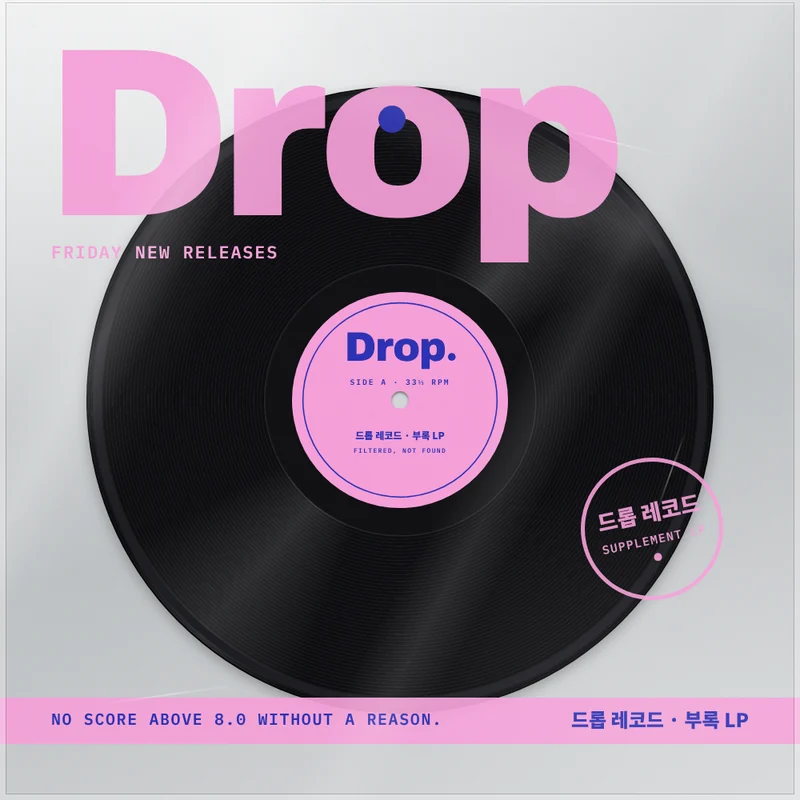
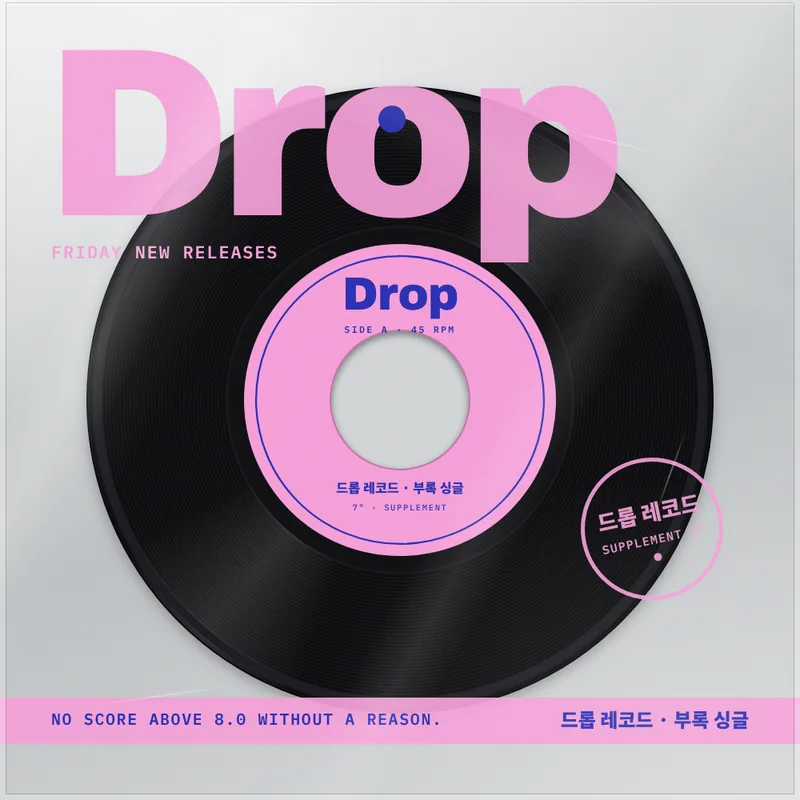
잡지 부록 그림도 7인치 싱글로, Spotify 싱글 앨범도 7인치로 보여 줌
- 부록 커버·라벨을 7인치로 다시 뽑음(큰 구멍, 큰 라벨, 45 RPM, '부록 싱글')
- album_type 'single' 앨범은 3D 판·크레이트·지금 재생에서 7인치. 종류는 기기에 기억하고 모르는 건 /albums로 물어 둠

Claude-Session: https://claude.ai/code/session_016AQsQZ3XshobkbFK42D9pw

Changed region(s): [[0.2812, 0.2812, 0.7188, 0.7188], [0.6875, 0.875, 0.9375, 0.9375]]

diff --git a/public/index.html b/public/index.html
@@ -269,6 +269,9 @@ input[type="range"]::-moz-range-thumb { width: 14px; height: 14px; border-radius
 .tk.on { background: var(--z100); }
 .tk.on b { font-weight: 700; }
 .lp.pl { border-radius: 2px; }
+/* 7인치 싱글: 12인치 LP 상자 안에 작게(7¼ / 12⅜) 세워 둔다 */
+.lp.s7 { left: 32%; width: 36%; bottom: 26%; } /* 앞 판자에 가려지지 않게 밑을 받쳐 올림(밑은 판자 뒤) */
+.lp.s7::after { inset: 4%; }
 /* 플레이리스트 = 곡 목록이 적힌 클립보드 */
 .cb { container-type: inline-size; border-radius: 5% !important; background: linear-gradient(180deg, rgba(255,240,220,.12), transparent 30%, rgba(30,15,5,.25)), var(--grain), linear-gradient(135deg, #a3723f, #8b5d31 55%, #77502a) !important; background-size: 100% 100%, 260px 70px, 100% 100% !important; box-shadow: 0 -3px 10px rgba(0,0,0,.35), inset 0 0 0 1px rgba(255,255,255,.12) !important; }
 .cb::before, .cb::after { display: none !important; }
@@ -473,6 +476,10 @@ dialog::backdrop { background: rgba(17,24,39,.35); }
 .np.on .np-disc .spinr { animation-play-state: running; }
 .np-disc .lbl { position: absolute; left: 34%; top: 34%; width: 32%; height: 32%; border-radius: 50%; background: #333 center/cover no-repeat; box-shadow: 0 0 0 2px #0b0b0c, inset 0 0 0 1px rgba(255,255,255,.15); }
 .np-disc .lbl::after { content: ''; position: absolute; left: 46%; top: 46%; width: 8%; height: 8%; border-radius: 50%; background: #e5e7eb; }
+/* 7인치 싱글: 슬리브·판이 LP의 0.6배, 라벨은 판의 절반, 가운데 큰 구멍 */
+.np.s7 .np-tilt { scale: .6; }
+.np.s7 .np-disc .lbl { left: 25%; top: 25%; width: 50%; height: 50%; }
+.np.s7 .np-disc .lbl::after { left: 39%; top: 39%; width: 22%; height: 22%; background: #16171b; box-shadow: inset 0 0 0 3px #d9a43a; }
 .np-sleeve { position: absolute; inset: 0; border-radius: 4px; background: #2b2b30 center/cover no-repeat; transform: translateZ(0); box-shadow: 0 30px 60px -18px color-mix(in srgb, var(--a1, #000) 70%, #000), 0 12px 24px -10px rgba(0,0,0,.45), inset 0 0 0 1px rgba(255,255,255,.18); -webkit-box-reflect: below 4px linear-gradient(transparent 84%, rgba(255,255,255,.16)); }
 .np-sleeve::before { content: ''; position: absolute; inset: 0; border-radius: inherit; pointer-events: none; background: linear-gradient(115deg, transparent 32%, rgba(255,255,255,.42) 46%, rgba(255,255,255,.08) 52%, transparent 62%); background-size: 260% 100%; background-position: var(--gx, 60%) 0; mix-blend-mode: soft-light; transition: background-position .5s; }
 .np-sleeve::after { content: ''; position: absolute; inset: 7%; border-radius: 50%; border: calc(1px + var(--w, 0) * 3px) solid rgba(255,252,245, calc(.06 + var(--w, 0) * .35)); pointer-events: none; }
@@ -1241,10 +1248,38 @@ body.magon > header.top, body.magon > main, body.magon > .amb, body.magon > foot
     const s = im.slice().sort((x, y) => (x.width || 0) - (y.width || 0));
     return (s.find((x) => (x.width || 0) >= w) || s[s.length - 1]).url;
   };
-  const toAlbum = (a) => MM.album({
+  const toAlbum = (a) => (noteType(a.id, a.album_type), MM.album({
     id: a.id, name: a.name, artist: (a.artists || []).map((x) => x.name).join(', '),
     img: pickImg(a.images, 300), year: (a.release_date || '').slice(0, 4), n: a.total_tracks,
-  });
+  }));
+  // 싱글(7인치, 2026-11-13 사용자 요청): Spotify가 album_type 'single'로 분류한 앨범(EP 포함) + 잡지 부록.
+  // 종류는 이 기기에 기억(LS music.atype {id: 's'|'a'}): 찾기 결과·지금 곡에서 받고, 크레이트에 있는데 모르는 것은 fillTypes가 물어 둔다
+  const AT = LS.get('music.atype') || {};
+  let atSaveT = 0;
+  function noteType(id, t) {
+    if (!id || !t) return;
+    const v = t === 'single' ? 's' : 'a';
+    if (AT[id] === v) return;
+    AT[id] = v; clearTimeout(atSaveT); atSaveT = setTimeout(() => LS.set('music.atype', AT), 500);
+  }
+  const isSingle = (a) => !!a && (!!a.m || (!isPl(a) && AT[a.id] === 's'));
+  const atTried = new Set();
+  let atBusy = false;
+  async function fillTypes() {
+    if (atBusy || !loggedIn()) return;
+    const ids = [...new Set(live().flatMap((c) => c.albums.filter((a) => !isPl(a) && !AT[a.id] && !atTried.has(a.id)).map((a) => a.id)))];
+    if (!ids.length) return;
+    atBusy = true;
+    try {
+      for (let i = 0; i < ids.length; i += 20) {
+        const part = ids.slice(i, i + 20); part.forEach((id) => atTried.add(id));
+        const j = await api('/albums?ids=' + part.join(',')).catch(() => null);
+        if (j && Array.isArray(j.albums)) { j.albums.forEach((x) => x && noteType(x.id, x.album_type)); continue; }
+        // 여러 장 묻기가 막혀 있으면 한 장씩
+        for (const id of part) { const x = await api('/albums/' + id).catch(() => null); if (x) noteType(id, x.album_type); }
+      }
+    } finally { atBusy = false; LS.set('music.atype', AT); renderCrate(); render(); }
+  }
   // 플레이리스트도 앨범 한 장처럼 꽂는다 (k: 'pl')
   const toList = (p) => MM.album({
     k: 'pl', id: p.id, name: p.name, artist: (p.owner && (p.owner.display_name || p.owner.id)) || '',
@@ -1259,7 +1294,7 @@ body.magon > header.top, body.magon > main, body.magon > .amb, body.magon > foot
     el.querySelector('.cb-img').style.backgroundImage = bg(a.img);
   }
   const uriOf = (a) => (isPl(a) ? 'spotify:playlist:' : 'spotify:album:') + a.id;
-  const metaLine = (a) => (isPl(a) ? [a.m ? '부록 LP' : '플레이리스트', a.artist, a.n ? a.n + '곡' : ''] : [a.artist, a.year, a.n ? a.n + '곡' : '']).filter(Boolean).join(' · ');
+  const metaLine = (a) => (isPl(a) ? [a.m ? '부록 싱글' : '플레이리스트', a.artist, a.n ? a.n + '곡' : ''] : [a.artist, a.year, a.n ? a.n + '곡' : '']).filter(Boolean).join(' · ');
   // 지금 판 = 플레이리스트로 틀었으면 플레이리스트, 아니면 곡의 앨범
   const ctxKey = (st) => {
     const it = st && st.item; if (!it) return '';
@@ -1359,7 +1394,7 @@ body.magon > header.top, body.magon > main, body.magon > .amb, body.magon > foot
       if (el) { el.classList.remove('shine'); void el.offsetWidth; el.classList.add('shine'); }
       const ci = $('cinfo'); ci.innerHTML = '';
       const b = document.createElement('b'); b.textContent = a.name;
-      ci.append(b, [a.m ? '부록 LP' : isPl(a) ? '플레이리스트' : 'LP', a.year, a.n ? a.n + '곡' : '', a.p ? a.p + '번 들음' : ''].filter(Boolean).join(' · '));
+      ci.append(b, [a.m ? '부록 싱글' : isPl(a) ? '플레이리스트' : isSingle(a) ? '7" 싱글' : 'LP', a.year, a.n ? a.n + '곡' : '', a.p ? a.p + '번 들음' : ''].filter(Boolean).join(' · '));
       setTimeout(() => ci.classList.add('on'), 450);
     }, 260);
   }
@@ -1409,6 +1444,7 @@ body.magon > header.top, body.magon > main, body.magon > .amb, body.magon > foot
         recs.appendChild(e);
       }
       e.dataset.i = i;
+      e.classList.toggle('s7', isSingle(a)); // 7인치 싱글은 상자 안에서도 작은 슬리브
       e.style.setProperty('--w', Math.min(1, (a.p || 0) / 20).toFixed(2));
       place(e, i - cf);
     }
@@ -1420,15 +1456,16 @@ body.magon > header.top, body.magon > main, body.magon > .amb, body.magon > foot
     if (loggedIn()) A.slice(i0, i0 + 2).forEach((x) => fetchTracks(uriOf(x)).catch(() => {}));
     // 지금 고른 판은 3D 새 판·슬리브까지 미리 만들어 둔다(누르는 순간 바로 모션)
     if (a && window.Deck3D && Deck3D.prebuild) {
-      const k2 = uriOf(a), mk = () => Deck3D.prebuild({ ...a, tracks: gapsOf(tkDone.get(k2)) }, isPl(a) && !a.sealed && !a.m);
+      const k2 = uriOf(a), mk = () => Deck3D.prebuild({ ...a, single: isSingle(a), tracks: gapsOf(tkDone.get(k2)) }, isPl(a) && !a.sealed && !a.m);
       clearTimeout(S.preT); S.preT = setTimeout(() => { mk(); if (loggedIn() && !tkDone.has(k2)) fetchTracks(k2).then(mk).catch(() => {}); }, 150);
     }
+    clearTimeout(S.atT); S.atT = setTimeout(fillTypes, 1500);
     $('pickT').textContent = a ? a.name : c.name;
     $('pickA').textContent = a ? metaLine(a) + (a.p ? ` · ${a.p}번 들음` : '') : '앨범 0장';
     $('crateIdx').textContent = A.length ? `${i0 + 1}/${A.length}` : '0/0';
     $('prevLp').disabled = i0 <= 0; $('nextLp').disabled = i0 >= A.length - 1;
     $('playLp').disabled = $('pullLp').disabled = !a;
-    $('playLp').lastChild.textContent = a && a.m ? '이 부록 LP 듣기' : isPl(a) ? '이 플레이리스트 듣기' : '이 앨범 듣기';
+    $('playLp').lastChild.textContent = a && a.m ? '이 부록 싱글 듣기' : isPl(a) ? '이 플레이리스트 듣기' : isSingle(a) ? '이 싱글 듣기' : '이 앨범 듣기';
   }
   // 한 칸 넘기기(버튼·키·휠). 움직이는 중이면 목표에 이어서 더한다. 끝이면 상자가 덜컹
   function flip(d) {
@@ -2061,7 +2098,7 @@ body.magon > header.top, body.magon > main, body.magon > .amb, body.magon > foot
     if (use3d) {
       // 트랙 목록이 이미 있으면 새 판에 무음 홈을 그려서 꺼낸다(없으면 받아지는 대로 다시 그림)
       // 기다리지 않고 바로(트랙 목록을 이미 받아 뒀으면 무음 홈까지)
-      Deck3D.drop({ ...a, tracks: gapsOf(tkDone.get(key)) }, slam);
+      Deck3D.drop({ ...a, single: isSingle(a), tracks: gapsOf(tkDone.get(key)) }, slam);
     }
     D.hidden = use3d; document.body.classList.add('changing');
     render();
@@ -2255,6 +2292,7 @@ body.magon > header.top, body.magon > main, body.magon > .amb, body.magon > foot
 
   function render() {
     const st = S.st, it = st && st.item, on = playing();
+    if (it && it.album) noteType(it.album.id, it.album.album_type);
     const alb = it && it.album && it.album.id ? it.album : null;
     const key = ctxKey(st);
     // 판(앨범·플레이리스트)이 바뀌면(다른 기기에서 바꿔도) 판을 갈아 끼운다
@@ -2285,7 +2323,7 @@ body.magon > header.top, body.magon > main, body.magon > .amb, body.magon > foot
     $('labA').textContent = L ? L.artist : (loggedIn() ? '크레이트에서 고르세요' : '눌러서 Spotify 연결');
     $('label').classList.toggle('art', !!(L && L.img));
     $('label').style.backgroundImage = bg(L && L.img);
-    if (window.Deck3D && Deck3D.ok) Deck3D.setLabel(L ? { name: L.name, artist: L.artist, img: L.img, m: L.m, tracks: (pend ? pend.key : key) && S.tracksFor === (pend ? pend.key : key) ? trackGaps() : null } : null);
+    if (window.Deck3D && Deck3D.ok) Deck3D.setLabel(L ? { name: L.name, artist: L.artist, img: L.img, m: L.m, single: isSingle(L), tracks: (pend ? pend.key : key) && S.tracksFor === (pend ? pend.key : key) ? trackGaps() : null } : null);
     applyAmb((L && L.img) || '');
     renderNow(it, L, pend, on, key);
     $('topLed').classList.toggle('on', on);
@@ -2334,6 +2372,7 @@ body.magon > header.top, body.magon > main, body.magon > .amb, body.magon > foot
       $('npSleeve').style.backgroundImage = bg(img); $('npLbl').style.backgroundImage = bg(img); $('npGlow').style.backgroundImage = bg(img);
     }
     const E = key ? entryFor(key, it) : null;
+    $('np').classList.toggle('s7', isSingle(pend || E)); // 7인치 싱글은 작은 슬리브 · 큰 라벨
     $('npSleeve').style.setProperty('--w', Math.min(1, ((E && E.p) || 0) / 20).toFixed(2));
     $('np').classList.toggle('on', playOn);
     $('np').classList.toggle('idle', !playOn);

diff --git a/public/mag/mag.js b/public/mag/mag.js
@@ -187,8 +187,9 @@ async function loadIssue(it) {
 }
 // 부록 싱글 = 12인치 LP. 투명 비닐(PVC) 커버에 잡지사 시그니처가 인쇄된 그림(sleeves/<mag>.webp)으로 바꿔 끼운다
 const sleeveOf = (mag) => `/mag/sleeves/${mag}.webp`;
+// 부록: 지면의 .single7.bigs 자리에 투명 비닐 커버 그림(sleeves/<mag>.webp). 2026-11-13부터 그림이 7인치 싱글(45 RPM · 큰 구멍)
 function lp12(it, html) {
-  return html.replace(/<div class="single7 bigs"([^>]*)>/g, (_, rest) => `<div class="single7 bigs lp12"${rest.replace('부록 싱글', '부록 LP')}><img class="lpimg" src="${sleeveOf(it.mag)}" alt="${it.name} 부록 LP, 투명 비닐 커버" draggable="false">`);
+  return html.replace(/<div class="single7 bigs"([^>]*)>/g, (_, rest) => `<div class="single7 bigs lp12"${rest}><img class="lpimg" src="${sleeveOf(it.mag)}" alt="${it.name} 부록 7인치 싱글, 투명 비닐 커버" draggable="false">`);
 }
 function parseIssue(it, html) {
   const doc = new DOMParser().parseFromString(html, 'text/html');
@@ -210,7 +211,7 @@ async function home() {
     const fresh = list.filter((x) => !opened()[x.id]);
     $('#vMail').innerHTML = `<h2>우편함</h2><p class="sub">${fresh.length ? `잡지 ${fresh.length}권이 도착했습니다. 상자를 골라 여세요.` : '새로 온 잡지가 없습니다. 읽은 호는 책장에 꽂혀 있습니다.'}</p><div class="parcels">${fresh.map((x, i) => `
       <button class="parcel" type="button" data-id="${x.id}" style="--r:${[-3, 2, -1.5, 3][i % 4]}deg" aria-label="${x.name} 상자 열기">
-        <span class="lb"><b>${x.publisher} → 구독자 님</b>${x.name} ${x.vol}<br>부록 LP 1장<br>${x.date}</span>
+        <span class="lb"><b>${x.publisher} → 구독자 님</b>${x.name} ${x.vol}<br>부록 싱글 1장<br>${x.date}</span>
         <span class="dot" style="background:${x.color}">${x.name}</span></button>`).join('')}</div>`;
     for (const b of sh.querySelectorAll('.parcel')) b.addEventListener('click', () => openParcel(list.find((x) => x.id === b.dataset.id)));
   } else {
@@ -243,7 +244,7 @@ function openParcel(it) {
   show('vBox'); $('#back').hidden = false; measure();
   const box = $('#box'); box.classList.remove('open'); $('#slit').style.width = 0;
   box.style.setProperty('--magc', it.color);
-  $('#lbl').innerHTML = `<b>${it.publisher} → 구독자 님</b>보내는 곳: ${it.publisher}<br>받는 곳: T/L/L 우편함<br>내용물: ${it.name} ${it.vol} 1부<br>부록 LP 1장(투명 비닐)<br>${it.date}`;
+  $('#lbl').innerHTML = `<b>${it.publisher} → 구독자 님</b>보내는 곳: ${it.publisher}<br>받는 곳: T/L/L 우편함<br>내용물: ${it.name} ${it.vol} 1부<br>부록 싱글 1장(투명 비닐)<br>${it.date}`;
   hint('테이프를 따라 가로로 그어서 상자를 여세요', '칼로 자르기');
   loadIssue(it).catch(() => toast('잡지를 불러오지 못했습니다'));
   box.focus({ preventScroll: true });
@@ -304,7 +305,7 @@ function buildBook() {
   if (state === 'wrap' && !torn) bindWrap();
   apply();
 }
-const wrapHTML = () => `<div class="wrapv" aria-label="비닐 포장. 가로로 그어서 뜯기"><div class="wst">부록 LP<br>1장 수록</div></div><div class="tearl"></div>`;
+const wrapHTML = () => `<div class="wrapv" aria-label="비닐 포장. 가로로 그어서 뜯기"><div class="wst">부록 싱글<br>1장 수록</div></div><div class="tearl"></div>`;
 const NEAR = 2;
 function near() {
   leaves.forEach((L, i) => {
@@ -322,7 +323,7 @@ function apply(moving = -1) {
   if (moving >= 0) setTimeout(() => apply(), 880);
   $('#book').style.transform = wide && k === 0 ? 'translateX(calc(var(--pw) * -.5))' : '';
   $('#pgno').textContent = state === 'read' ? `${k + 1} / ${n}` : '';
-  if (state === 'read') { hint(lastPage() ? '부록 LP를 누르면 테이프를 떼고 재생합니다' : ''); const pg = LS.get('mag.page') || {}; pg[cur.id] = k; LS.set('mag.page', pg); }
+  if (state === 'read') { hint(lastPage() ? '부록 싱글을 누르면 테이프를 떼고 재생합니다' : ''); const pg = LS.get('mag.page') || {}; pg[cur.id] = k; LS.set('mag.page', pg); }
 }
 const lastPage = () => k >= leaves.length - 1;
 function turn(d) {
@@ -389,13 +390,13 @@ async function takeSingle() {
   for (const x of sh.querySelectorAll('.single7')) x.classList.add('taken');
   sfx.peel();
   const C = core(), tracks = cur.tracks || [];
-  if (!C || !C.loggedIn()) { toast('Spotify에 연결하면 이 LP를 바로 들을 수 있습니다'); return; }
+  if (!C || !C.loggedIn()) { toast('Spotify에 연결하면 이 싱글을 바로 들을 수 있습니다'); return; }
   if (!tracks.length) return;
   try {
     const saved = LS.get('mag.pl') || {};
     let ent = saved[cur.id];
     if (!ent) {
-      toast('부록 LP를 꺼내는 중…');
+      toast('부록 싱글을 꺼내는 중…');
       const found = [];
       for (const s of tracks) {
         if (s.uri) { found.push({ uri: s.uri, img: s.img }); continue; }
@@ -405,7 +406,7 @@ async function takeSingle() {
       }
       if (!found.length) { toast('부록 곡을 Spotify에서 찾지 못했습니다'); return; }
       const name = `${cur.name} ${cur.vol} 부록`;
-      ent = await makePlaylist(C, name, `${cur.publisher} · ${cur.date} · T/L/L 잡지 부록 LP`, found.map((f) => f.uri)).catch(() => null);
+      ent = await makePlaylist(C, name, `${cur.publisher} · ${cur.date} · T/L/L 잡지 부록 싱글`, found.map((f) => f.uri)).catch(() => null);
       if (!ent) { await playUris(C, found.map((f) => f.uri)); toast(`▶ 부록 ${found.length}곡 재생 (플레이리스트는 만들지 못했습니다)`); return; }
       ent.n = found.length;
       saved[cur.id] = ent; LS.set('mag.pl', saved);

diff --git a/scripts/mag-sleeves.html b/scripts/mag-sleeves.html
@@ -42,6 +42,9 @@ body.L{width:600px;height:600px}
 <div class="S" id="S"></div>
 <script>
 const q = new URLSearchParams(location.search), M = q.get('m') || 'drop', part = q.get('part') || 'cover';
+// 2026-11-13부터 부록은 7인치 싱글(가운데 큰 구멍 · 큰 라벨 · 45 RPM). 예전 12인치 LP는 ?size=12
+const SEVEN = q.get('size') !== '12';
+const T = (x) => (SEVEN ? x.replace(/부록 LP/g, '부록 싱글').replace(/SUPPLEMENT LP/g, 'SUPPLEMENT 7"').replace(/RPM 33⅓/g, 'RPM 45') : x);
 const SIG = {
   drop: { c1: '#f59ad6', c2: '#2a2fb0', pub: '드롭 레코드', name: 'Drop', day: 'FRIDAY NEW RELEASES' },
   fb: { c1: '#2bb3d9', c2: '#f4efe6', pub: '피드백 프레스', name: 'feedback', day: 'MONDAY · BANDS' },
@@ -83,6 +86,23 @@ function label(px) {
     <div style="${base};top:${f(160)};font:600 ${f(12)} 'IBM Plex Mono';color:#fff;letter-spacing:.2em">YOUR MONTH · SIDE A</div>
     <div style="${base};top:${f(206)};font:900 ${f(15)} 'Noto Sans KR';color:#fff">T/L/L 출판 · 부록 LP</div>`;
 }
+/* 7인치 라벨: 가운데 큰 구멍(라벨 지름의 44%)을 피해 위·아래 띠에만 글자 */
+function label7(px) {
+  const k = px / 336, f = (n) => (n * k).toFixed(1) + 'px';
+  const base = `position:absolute;left:50%;transform:translateX(-50%);white-space:nowrap;text-align:center`;
+  const P = { drop: { bg: SIG.c1, fg: SIG.c2, ac: SIG.c2, font: "'Archivo Black'", name: 'Drop', fs: 50 },
+    fb: { bg: SIG.c2, fg: '#14334a', ac: SIG.c1, font: "'Alfa Slab One'", name: 'feedback', fs: 40 },
+    cy: { bg: '#f3efe6', fg: '#141414', ac: SIG.c1, font: "'Archivo Black'", name: 'Cypher', fs: 40 },
+    mo: { bg: SIG.c2, fg: '#fff', ac: SIG.c1, font: "'Archivo Black'", name: '33⅓', fs: 46 } }[M];
+  const deco = M === 'mo' ? `<div style="position:absolute;inset:0;background:conic-gradient(${P.ac} 0 120deg,transparent 120deg)"></div>`
+    : M === 'cy' ? `<div style="position:absolute;inset:${f(12)};border-radius:50%;border:${f(3)} solid ${P.ac}"></div><div style="position:absolute;left:50%;top:${f(5)};width:${f(14)};height:${f(14)};margin-left:${f(-7)};border-radius:50%;background:${P.ac}"></div>`
+    : `<div style="position:absolute;inset:${f(12)};border-radius:50%;border:${f(2)} solid ${P.ac}"></div>`;
+  return `<div style="position:absolute;inset:0;background:${P.bg}"></div>${deco}
+    <div style="${base};top:${f(30)};font:${f(P.fs)}/1 ${P.font};color:${P.fg};letter-spacing:-.02em">${P.name}</div>
+    <div style="${base};top:${f(30 + P.fs + 6)};font:600 ${f(10)} 'IBM Plex Mono';color:${P.fg};letter-spacing:.2em">SIDE A · 45 RPM</div>
+    <div style="${base};top:${f(252)};font:900 ${f(14)} 'Noto Sans KR';color:${P.fg}">${SIG.pub} · 부록 싱글</div>
+    <div style="${base};top:${f(278)};font:600 ${f(9)} 'IBM Plex Mono';color:${P.fg};letter-spacing:.16em;opacity:.85">7" · SUPPLEMENT</div>`;
+}
 /* 비닐 위 인쇄 */
 function print() {
   const C1 = SIG.c1, C2 = SIG.c2;
@@ -118,10 +138,15 @@ function print() {
 const S = document.getElementById('S');
 if (part === 'label') {
   document.body.classList.add('L');
-  S.innerHTML = `<div style="position:absolute;inset:0;border-radius:50%;overflow:hidden"><div style="position:absolute;left:50%;top:50%;width:336px;height:336px;margin:-168px 0 0 -168px;transform:scale(${600 / 336})">${label(336)}</div></div>`;
+  S.innerHTML = `<div style="position:absolute;inset:0;border-radius:50%;overflow:hidden"><div style="position:absolute;left:50%;top:50%;width:336px;height:336px;margin:-168px 0 0 -168px;transform:scale(${600 / 336})">${(SEVEN ? label7 : label)(336)}</div></div>`;
 } else {
-  S.innerHTML = `<div class="rec"><div class="run"></div><div class="lab"><div class="in">${label(336)}</div></div><div class="hole"></div></div>
-   ${print()}<div class="grain"></div><div class="pvc"></div>
+  // 7인치: 라벨 지름 = 판의 1/2, 가운데 구멍(1.5인치) = 라벨의 44%, 소리 홈 끝(런아웃) = 판의 55%
+  const rec = SEVEN ? `<div class="rec"><div class="run" style="width:430px;height:430px;margin:-215px 0 0 -215px"></div>
+     <div class="lab" style="width:390px;height:390px;margin:-195px 0 0 -195px"><div class="in" style="transform:scale(${390 / 336})">${label7(336)}</div></div>
+     <div class="hole" style="width:172px;height:172px;margin:-86px 0 0 -86px;box-shadow:inset 0 4px 8px rgba(0,0,0,.45),0 0 0 2px rgba(0,0,0,.25)"></div></div>`
+    : `<div class="rec"><div class="run"></div><div class="lab"><div class="in">${label(336)}</div></div><div class="hole"></div></div>`;
+  S.innerHTML = `${rec}
+   ${T(print())}<div class="grain"></div><div class="pvc"></div>
    <i class="crk" style="left:120px;top:880px;width:180px;transform:rotate(-8deg)"></i><i class="crk" style="left:700px;top:160px;width:140px;transform:rotate(14deg)"></i><i class="crk" style="left:820px;top:640px;width:110px;transform:rotate(-70deg)"></i>
    <div class="seam"></div>`;
 }

diff --git a/public/sw.js b/public/sw.js
@@ -2,7 +2,7 @@
 // - 앱 파일: 캐시를 먼저 보여 주고 뒤에서 새 파일을 받아 둔다(다음에 열 때 반영)
 // - 새로고침은 네트워크를 먼저 쓴다. 글꼴은 따로 캐시. /api/ 는 건드리지 않는다
 // 여러 파일을 함께 고쳤으면 VERSION을 올린다
-const VERSION = 'tll-v7';
+const VERSION = 'tll-v8';
 const FONTS = 'tll-fonts-1';
 const KEEP = [VERSION, FONTS];
 const SHELL = [
